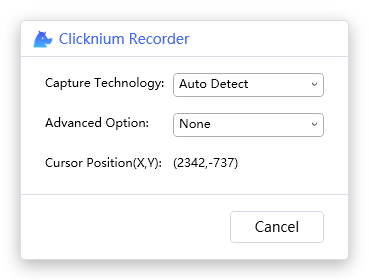
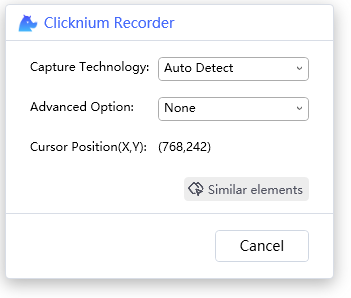
add capture similar elements doc

diff --git a/doc/developtools/vscode/recorder/capture_similar_elements.md b/doc/developtools/vscode/recorder/capture_similar_elements.md
@@ -1,0 +1,82 @@
+---
+sidebar_position: 3
+---
+# Capture Similar Elements
+
+"Similar elements" means UI elements with similar structure, like a list of items, or field of a list. Locators generated by this feature can be used in case of a list of UI elements need to be processed in automation.  
+
+- [Capture Similar Elements](#capture-similar-elements)
+  - [Start recorder](#start-recorder)
+  - [Capture wizard](#capture-wizard)
+  - [Start capture](#start-capture)
+  - [Highlight elements](#highlight-elements)
+  - [Clear elements](#clear-elements)
+  - [Remove element](#remove-element)
+  - [Cancel capture](#cancel-capture)
+  - [Recapture](#recapture)
+
+> **Remarks:**
+>- Only support web UI element for now.  
+>- Xpath locator is not supported by this function.  
+>- Image locator is not supported.  
+
+
+## Start recorder
+- Start from Visual Studio Code LOCATORS tab  
+![start from vscode local locator](../../../img/start_recorder_from_vscode.png)
+- Strat from Visual Studio Code CLOUD LOCATORS tab  
+![start from vscode cloud locator](../../../img/start_recorder_from_cloud.png)
+- Start with keyboard shortcut `Ctrl+F10` in code.   
+
+## Capture wizard  
+Click on the `Similar elements` button, a wizard window will be displayed.
+- Click  `Similar elements` button
+
+![similar elements button](../../../img/similar_elements_button.png)
+- Capture similar elements wizard 
+
+![capture similar element wizard](../../../img/capture_similar_element_wizard.png)
+
+
+## Start capture
+
+1. Capture first element  
+Move mouse cursor to one UI element of target list, it will highlight the element, then press `Ctrl+click` to capture the locator. The element image will be added to the wizard. A locator for this element will be generated accordingly and matched elements count for this locator will be displayed below the image.  
+![capture first element](../../../img/capture_first_similar_element.png)  
+
+2. Capture another element  
+Move mouse cursor to another element of the target list, then press `Ctrl+click` to capture it. The image will be added to wizard, and locator will be updated accordingly to reflect the captured elements. You may check if the matched elements count is expected to determine if more elements are needed to be captured.  
+![capture another element](../../../img/capture_another_similar_element.png)  
+
+3. Save the locator  
+Click `Save` to save the locator, the locator for matching similar elements will be added to the locator store.  
+![save similar locator](../../../img/save_similar_locator.png)  
+
+## Highlight elements
+Highlight all matched elements for several seconds to determine if the generated locator is correct.  
+- Click the matched elements count button  
+![highlight similar elements1](../../../img/highlight_similar_elements1.png)
+![highlight similar elements2](../../../img/highlight_similar_elements2.png)
+
+## Clear elements
+Clear all the elements captured in the wizard window by clicking the right-top `Clear` button. It is normally used if the matched elements are not expected and you want to startover. Once clicking the button, the elements are removed and the `Clear` and `Save` buttons are disabled when there is no data.  
+- Click the `Clear` button  
+![clear similar elements](../../../img/clear_similar_elements.png) 
+
+## Remove element
+Remove one element in the wizard window.  
+- Click the `Remove` button  
+![remove similar element](../../../img/remove_similar_element.png)  
+
+## Cancel capture
+Discard the current capture result and return to the main capture window.  
+- Click the `Cancel` button  
+![cancel capture similar element](../../../img/cancel_capture_similar_element.png)  
+
+## Recapture
+Recapture similar element can be used to update your single locator or similar locator.
+1. Start from Visual Studio Code   
+![vscode recapture](../../../img/recorder_recapture_vscode.png)  
+2. Click `Similar elements` button  
+![recapture similar element button](../../../img/recapture_similar_element_button.png)  
+3. Follow steps in [Start capture](#start-capture) to generate the locator. After clicking `Save` button, the locator in store will be replaced by the recaptured one. 

diff --git a/doc/developtools/vscode/recorder/recorder.md b/doc/developtools/vscode/recorder/recorder.md
@@ -1,10 +1,11 @@
-# Clicknium Recorder 
+# Clicknium Recorder
 
 Clicknium Recorder provides operations for recording locators, recapturing locators, validating locators and locator management.
 
 - [Quick Start](./quickstart.md)
-- [Capture](./capture.md)
-- [Recapture](./recapture.md)
+- [Capture Single Element](./capture.md)
+- [Capture Similar Elements](./capture_similar_elements.md)
 - [Validate](./validate.md)
+- [Recapture](./recapture.md)
 - [Locator Management](./../locator_management.md)
 

diff --git a/doc/developtools/vscode/recorder/capture.md b/doc/developtools/vscode/recorder/capture.md
@@ -1,7 +1,7 @@
 ---
 sidebar_position: 2
 ---
-# Capture
+# Capture Single Element
 
 ## How to start recorder
 - Start from Visual Studio Code LOCATORS tab  

diff --git a/doc/developtools/vscode/recorder/recapture.md b/doc/developtools/vscode/recorder/recapture.md
@@ -1,5 +1,5 @@
 ---
-sidebar_position: 4
+sidebar_position: 5
 ---
 # Recapture
 

diff --git a/doc/developtools/vscode/recorder/validate.md b/doc/developtools/vscode/recorder/validate.md
@@ -1,5 +1,5 @@
 ---
-sidebar_position: 3
+sidebar_position: 4
 ---
 # Validate
 
